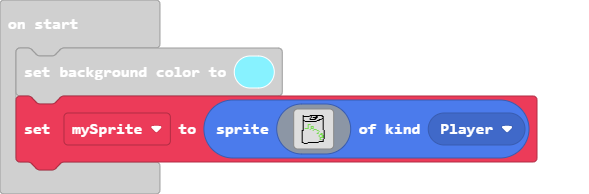
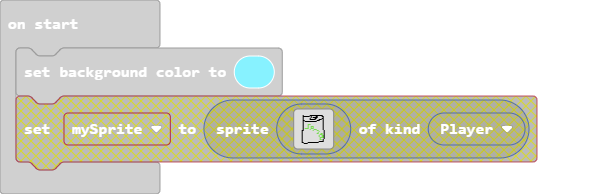
Update main.blocks, main.ts

Changed region(s): [[0.0, 0.4948, 0.9168, 0.8969]]

diff --git a/main.ts b/main.ts
@@ -1,35 +1,1 @@
 scene.setBackgroundColor(9)
-let mySprite = sprites.create(img`
-    ................................
-    ................................
-    .....f......fffffffffffff.......
-    .....fffffff.f....ff....ff......
-    .....f.......f.fffff.....f......
-    .....f......f....ff.....ff......
-    .....f......ffffff...fff.f......
-    .....ff............fff...f......
-    .....f.ffffffffffff......f......
-    .....f...................f......
-    .....f...................f......
-    .....f....777............f......
-    .....f....7..............f......
-    .....f....7..777.........f......
-    .....f....7..7.7.........f......
-    .....f.7777..777.........f......
-    .....f......7...777......f......
-    ....ff.........7...77.....f.....
-    ....f................7....f.....
-    ....f...............7.....f.....
-    ....f..............77..77.f.....
-    ....f.................777.f.....
-    ....f................7..77f.....
-    ....f................7..77f.....
-    ....f.................7777f.....
-    ....f.................7...f.....
-    ....f.................77.f......
-    ....f....................f......
-    ....f................fffff......
-    ....ff....fffffffffff...........
-    ......ffff......................
-    ................................
-    `, SpriteKind.Player)
